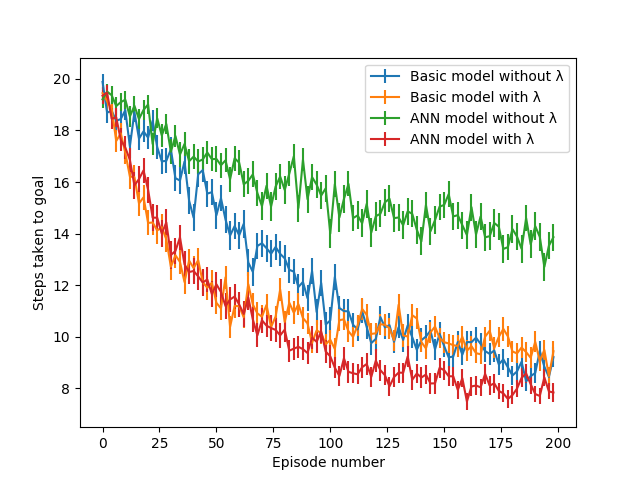
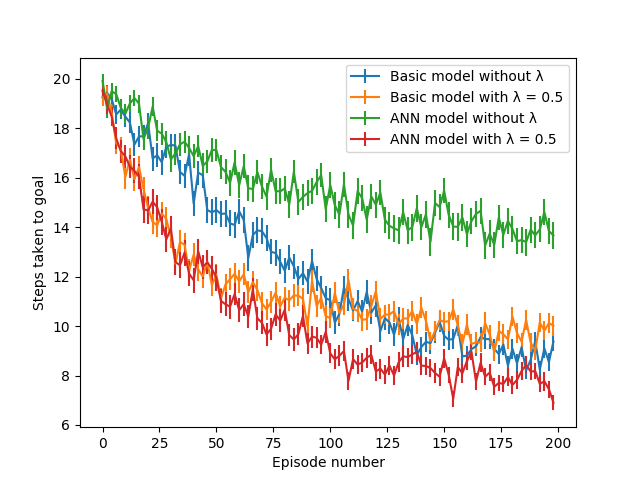
Fixed eligibility graphic and table

diff --git a/driver.py b/driver.py
@@ -81,7 +81,7 @@ def nn_basic_eligibility_comparison(*args, epsilon=0.2, **kwargs):
                        learning_rate=learning_rate,
                        discount_rate=discount_rate,
                        trace_decay_rate=trace_decay_rate),
-         'label': 'Basic model with λ'},
+         'label': 'Basic model with λ = {}'.format(trace_decay_rate)},
         {'policy': egreedy_partial,
          'qs': partial(NeuralQs, learning_rate=learning_rate,
                        discount_rate=discount_rate),
@@ -90,7 +90,7 @@ def nn_basic_eligibility_comparison(*args, epsilon=0.2, **kwargs):
          'qs': partial(NeuralQsEligibility, learning_rate=learning_rate,
                        discount_rate=discount_rate,
                        trace_decay_rate=trace_decay_rate),
-         'label': 'ANN model with λ'}
+         'label': 'ANN model with λ = {}'.format(trace_decay_rate)}
     ]
     return compare(models, *args, **kwargs)
 
@@ -167,7 +167,8 @@ def question3_lr_dr(num_runs=20, num_episodes=200, max_episode_step=20,
 
 
 def question3_epsilon(*args, **kwargs):
-    qs_partial = partial(NeuralQs, learning_rate=2, discount_rate=0.6)
+    qs_partial = partial(NeuralQsEligibility, learning_rate=0.8,
+                         discount_rate=0.6, trace_decay_rate=0.5)
 
     epsilons = [(0, False),
                 (0.05, False),

diff --git a/report/report.tex b/report/report.tex
@@ -211,10 +211,10 @@ learning curves.
       N/A & No \\
     \autoref{fig:q1_avg} & 100 & 1000 & 20 & No & 0.001 & 0.1 & 0.1 & No &
       N/A & No \\
-    \autoref{fig:ext_basic_vs_nn} (Basic) & 100 & 1000 & 20 & No & 0.2 & 0.8 &
-      0.6 & No & N/A & No \\
-    \autoref{fig:ext_basic_vs_nn} (NN) & 100 & 1000 & 20 & No & 0.2 & 0.8 &
-      0.6 & No & N/A & Yes \\
+    \autoref{fig:ext_basic_vs_nn_vs_eligibility} & 200 & 200 & 20 & No & 0.2
+      & 0.8 & 0.6 & $*$ & $*$ & No \\
+    \autoref{fig:ext_epsilon_vs_decay} & 100 & 200 & 20 & $*$ & $*$ & 0.8 & 0.6
+      & No & N/A & Yes \\
     \hline
   \end{tabular}
   \caption{Parameters for figures generated.}
@@ -233,6 +233,7 @@ learning curves.
   \item `Trace?' denotes whether an eligibility trace was used
   \item $\lambda$ is the trace decay rate
   \item `ANN?' denotes whether an artificial neural network was used
+  \item $*$ is used when parameter varies within the figure
 \end{itemize*}
 
 \begin{table}[H]
